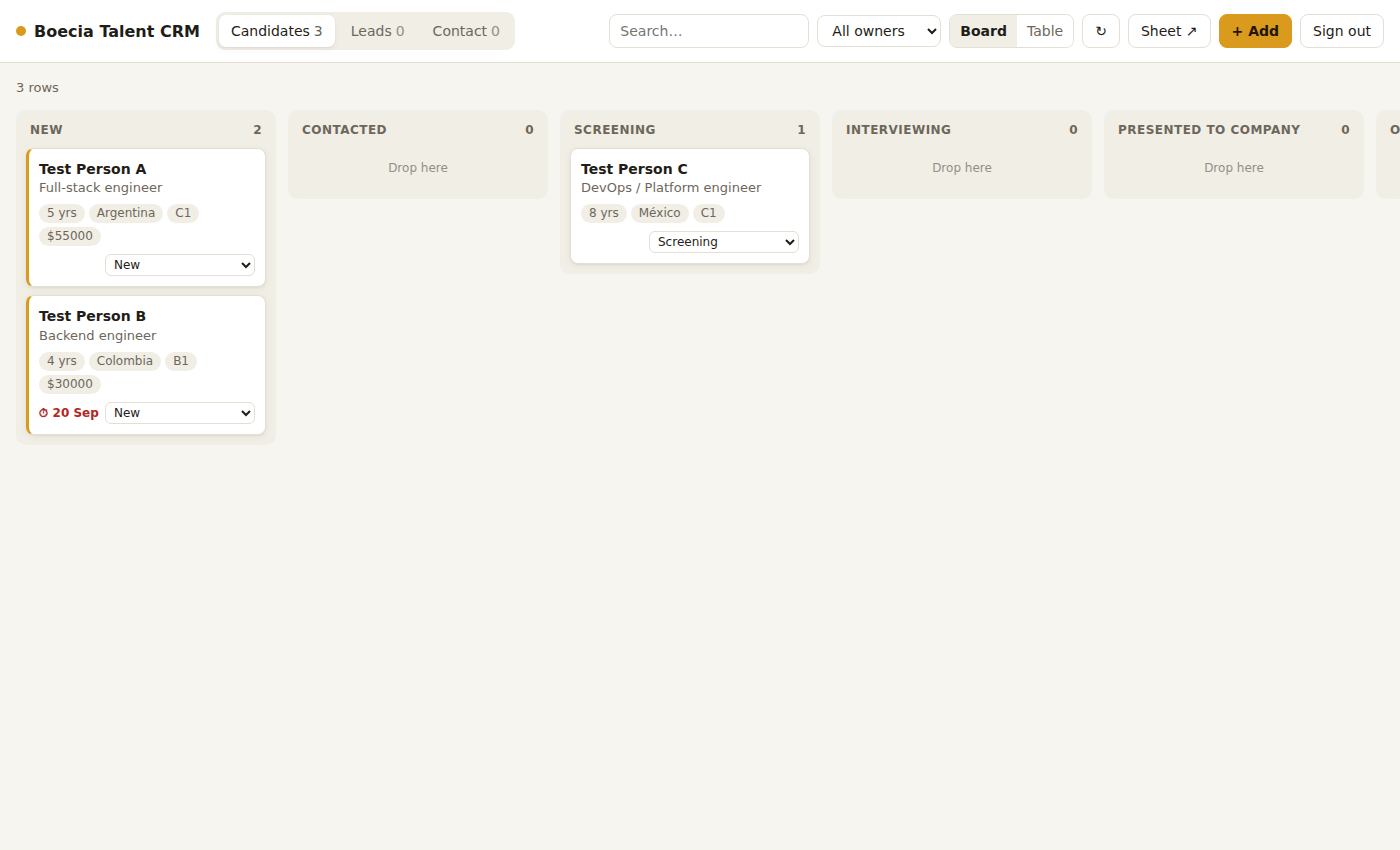
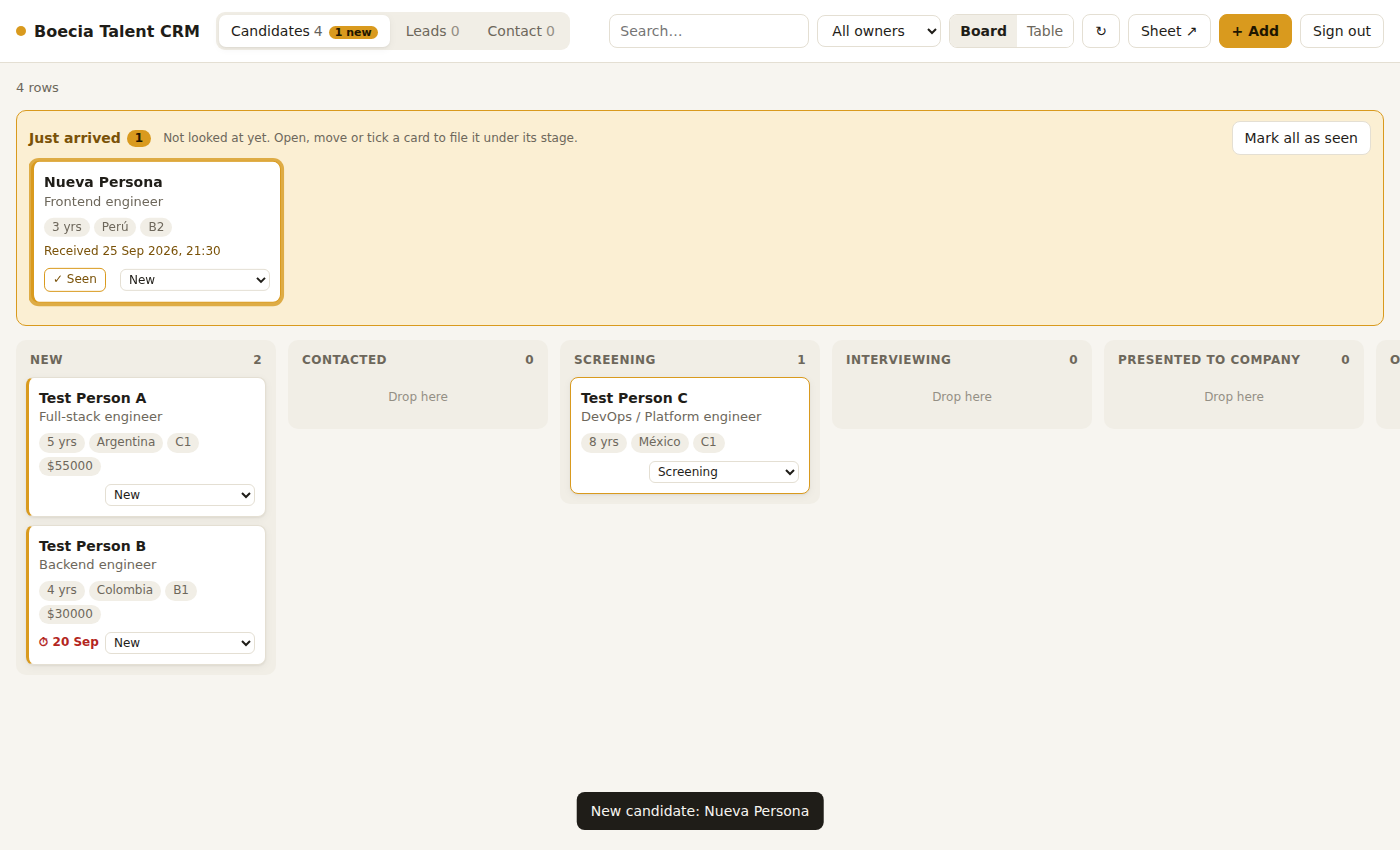
Add "Just arrived" box for new CRM submissions
Rows not yet looked at on this device (tracked in localStorage) show in a
highlighted box above the board instead of their stage column, with a
toast naming the newcomer, a count in the tab title and a badge on the
tab. Opening, moving or ticking a card files it under its stage. The
table view lists unseen rows first with a New label. Polling is every
30 s and on returning to the tab.

Claude-Session: https://claude.ai/code/session_014grjmri288MbFiqX2jiEVS

diff --git a/boecia-crm/public/app.js b/boecia-crm/public/app.js
@@ -42,10 +42,63 @@ import { createSheetsClient } from './sheets.js';
     owner: '',
     sort: { key: 'Received', dir: -1 },
     drawer: null,      // { mode: 'edit'|'new', row }
-    busy: false
+    busy: false,
+    seen: {},          // tab -> Set of Submission IDs already looked at on this device
+    flash: new Set()   // ids that just arrived, animated once
   };
 
   var $ = function (id) { return document.getElementById(id); };
+
+  /* ---------------- "Just arrived" tracking ---------------- */
+
+  // Rows are "fresh" until opened, moved or ticked as seen. Kept per device in localStorage,
+  // so anything that came in while the CRM was closed also shows up as fresh.
+  var SEEN_KEY = 'boecia-crm-seen-v1';
+  var SINGULAR = { Candidates: 'candidate', Leads: 'lead', Contact: 'contact message' };
+
+  function loadSeen() {
+    try {
+      var o = JSON.parse(localStorage.getItem(SEEN_KEY) || '{}');
+      var out = {};
+      Object.keys(o).forEach(function (t) { out[t] = new Set(o[t]); });
+      return out;
+    } catch (e) { return {}; }
+  }
+
+  function saveSeen() {
+    try {
+      var o = {};
+      Object.keys(state.seen).forEach(function (t) { o[t] = Array.from(state.seen[t]); });
+      localStorage.setItem(SEEN_KEY, JSON.stringify(o));
+    } catch (e) { /* storage blocked: fresh tracking lasts for this visit only */ }
+  }
+
+  state.seen = loadSeen();
+
+  function isFresh(tab, r) { var s = state.seen[tab]; return !!s && !s.has(r.id); }
+
+  function freshCount(tab) {
+    var d = state.data[tab];
+    return d ? d.rows.filter(function (r) { return isFresh(tab, r); }).length : 0;
+  }
+
+  function markSeen(tab, ids) {
+    var s = state.seen[tab] || (state.seen[tab] = new Set());
+    var changed = false;
+    ids.forEach(function (id) { if (!s.has(id)) { s.add(id); changed = true; } });
+    if (changed) saveSeen();
+    return changed;
+  }
+
+  var announced = 0;
+  function announce(tab, rows) {
+    announced++;
+    var lay = LAYOUT[tab];
+    var name = rows[0].values[lay.title] || rows[0].values[lay.sub] || '';
+    toast(rows.length === 1 ? 'New ' + SINGULAR[tab] + (name ? ': ' + name : '') : rows.length + ' new ' + SINGULAR[tab] + 's');
+    rows.forEach(function (r) { state.flash.add(r.id); });
+    setTimeout(function () { rows.forEach(function (r) { state.flash.delete(r.id); }); }, 2500);
+  }
 
   /* ---------------- Google Sheets calls ---------------- */
 
@@ -58,7 +111,26 @@ import { createSheetsClient } from './sheets.js';
   }
 
   function load(tab) {
-    return call('getData', tab).then(function (d) { state.data[tab] = d; return d; });
+    return call('getData', tab).then(function (d) {
+      var prev = state.data[tab];
+      var seen = state.seen[tab];
+      if (!seen) {
+        // First visit on this device: what's already in the sheet counts as seen.
+        state.seen[tab] = new Set(d.rows.map(function (r) { return r.id; }));
+      } else {
+        // Forget deleted rows so storage doesn't grow forever.
+        var ids = new Set(d.rows.map(function (r) { return r.id; }));
+        seen.forEach(function (id) { if (!ids.has(id)) seen.delete(id); });
+      }
+      saveSeen();
+      state.data[tab] = d;
+      if (prev) {
+        var before = new Set(prev.rows.map(function (r) { return r.id; }));
+        var arrived = d.rows.filter(function (r) { return !before.has(r.id) && isFresh(tab, r); });
+        if (arrived.length) announce(tab, arrived);
+      }
+      return d;
+    });
   }
 
   function loadAll(showErrors) {
@@ -128,6 +200,8 @@ import { createSheetsClient } from './sheets.js';
   /* ---------------- rendering ---------------- */
 
   function render() {
+    var total = TABS.reduce(function (n, t) { return n + freshCount(t); }, 0);
+    document.title = (total ? '(' + total + ') ' : '') + 'Boecia Talent CRM';
     renderTabs();
     renderOwnerFilter();
     var d = current();
@@ -140,7 +214,8 @@ import { createSheetsClient } from './sheets.js';
     $('tabs').innerHTML = TABS.map(function (t) {
       var d = state.data[t];
       return '<button class="tab" role="tab" data-tab="' + t + '" aria-selected="' + (t === state.tab) + '">' +
-        esc(t) + '<span class="count">' + (d ? d.rows.length : '–') + '</span></button>';
+        esc(t) + '<span class="count">' + (d ? d.rows.length : '–') + '</span>' +
+        (freshCount(t) ? '<span class="fresh-badge">' + freshCount(t) + ' new</span>' : '') + '</button>';
     }).join('');
   }
 
@@ -164,7 +239,9 @@ import { createSheetsClient } from './sheets.js';
   }
 
   function renderBoard(d) {
-    var rows = filtered(d);
+    var all = filtered(d);
+    var fresh = all.filter(function (r) { return isFresh(state.tab, r); });
+    var rows = all.filter(function (r) { return !isFresh(state.tab, r); });
     var stages = d.stages.slice();
     // Rows whose stage is blank or not in the Lists tab still need a home.
     var extra = {};
@@ -173,7 +250,12 @@ import { createSheetsClient } from './sheets.js';
 
     var lay = LAYOUT[state.tab];
     var t = today();
-    var html = statusLine(d, rows) + '<div class="board">' + stages.map(function (stage) {
+    var arrivals = fresh.length ? '<section class="arrivals" aria-label="Just arrived">' +
+      '<div class="arrivals-head"><h2>Just arrived <span class="n">' + fresh.length + '</span></h2>' +
+      '<span class="hint">Not looked at yet. Open, move or tick a card to file it under its stage.</span>' +
+      '<button class="btn" type="button" data-seen-all>Mark all as seen</button></div>' +
+      '<div class="arrivals-cards">' + fresh.map(function (r) { return cardHtml(d, r, lay, t, true); }).join('') + '</div></section>' : '';
+    var html = statusLine(d, all) + arrivals + '<div class="board">' + stages.map(function (stage) {
       var inCol = rows.filter(function (r) { return stageOf(d, r) === stage; });
       return '<section class="col" data-stage="' + esc(stage) + '">' +
         '<h3><span>' + esc(stage || 'No ' + d.stageHeader.toLowerCase()) + '</span><span>' + inCol.length + '</span></h3>' +
@@ -183,7 +265,7 @@ import { createSheetsClient } from './sheets.js';
     $('main').innerHTML = html;
   }
 
-  function cardHtml(d, r, lay, t) {
+  function cardHtml(d, r, lay, t, fresh) {
     var v = r.values;
     var title = v[lay.title] || v[lay.sub] || '(no name)';
     var chips = lay.chips.filter(function (c) { return v[c[0]]; }).map(function (c) {
@@ -194,11 +276,14 @@ import { createSheetsClient } from './sheets.js';
     var dueHtml = due ? '<span class="due' + (due < t ? ' late' : '') + '" title="' + esc((v['Next step'] ? v['Next step'] + ' · ' : '') + due) + '">⏱ ' + esc(shortDate(due)) + '</span>' : '<span></span>';
     var opts = d.stages.map(function (s) { return '<option' + (s === stage ? ' selected' : '') + '>' + esc(s) + '</option>'; }).join('');
     if (d.stages.indexOf(stage) === -1) opts = '<option selected disabled>' + esc(stage || '—') + '</option>' + opts;
-    return '<article class="card' + (stage === d.stages[0] ? ' new' : '') + '" draggable="true" data-id="' + esc(r.id) + '">' +
+    var cls = 'card' + (stage === d.stages[0] ? ' new' : '') + (fresh ? ' fresh' : '') + (state.flash.has(r.id) ? ' arrived' : '');
+    return '<article class="' + cls + '" draggable="true" data-id="' + esc(r.id) + '">' +
       '<div class="title">' + esc(title) + '</div>' +
       (v[lay.sub] && v[lay.title] ? '<div class="sub">' + esc(v[lay.sub]) + '</div>' : '') +
       (chips ? '<div class="chips">' + chips + '</div>' : '') +
-      '<div class="foot">' + dueHtml + '<select class="stage-select" aria-label="Move to">' + opts + '</select></div>' +
+      (fresh && v.Received ? '<div class="received">Received ' + esc(v.Received) + '</div>' : '') +
+      '<div class="foot">' + (fresh ? '<button class="seen-btn" type="button" data-seen title="Mark as seen">✓ Seen</button>' : dueHtml) +
+      '<select class="stage-select" aria-label="Move to">' + opts + '</select></div>' +
       '</article>';
   }
 
@@ -217,11 +302,16 @@ import { createSheetsClient } from './sheets.js';
       }
       return x < y ? -dir : x > y ? dir : 0;
     });
+    // Unseen rows go first so they stand out in the table too.
+    var tab = state.tab;
+    rows = rows.filter(function (r) { return isFresh(tab, r); }).concat(rows.filter(function (r) { return !isFresh(tab, r); }));
     var html = statusLine(d, rows) + '<div class="table-wrap"><table><thead><tr>' + cols.map(function (h) {
       return '<th data-sort="' + esc(h) + '">' + esc(h) + (h === k ? ' <span class="arrow">' + (dir > 0 ? '▲' : '▼') + '</span>' : '') + '</th>';
     }).join('') + '</tr></thead><tbody>' + rows.map(function (r) {
-      return '<tr data-id="' + esc(r.id) + '">' + cols.map(function (h) {
+      var fresh = isFresh(tab, r);
+      return '<tr data-id="' + esc(r.id) + '"' + (fresh ? ' class="fresh-row"' : '') + '>' + cols.map(function (h, i) {
         var val = r.values[h] || '';
+        if (i === 0 && fresh) return '<td title="' + esc(val) + '"><span class="pill arrived">New</span>' + esc(val) + '</td>';
         if (h === d.stageHeader) return '<td><span class="pill' + (val === d.stages[0] ? ' new' : '') + '">' + esc(val) + '</span></td>';
         return '<td title="' + esc(val) + '">' + esc(val) + '</td>';
       }).join('') + '</tr>';
@@ -234,6 +324,7 @@ import { createSheetsClient } from './sheets.js';
   function openDrawer(mode, row) {
     var d = current();
     state.drawer = { mode: mode, tab: state.tab, row: row };
+    if (row && markSeen(state.tab, [row.id])) render();
     var lay = LAYOUT[state.tab];
     $('drawer-title').textContent = mode === 'new' ? 'New ' + state.tab.replace(/s$/, '').toLowerCase()
       : (row.values[lay.title] || row.values[lay.sub] || 'Row');
@@ -305,7 +396,7 @@ import { createSheetsClient } from './sheets.js';
     if (dr.mode === 'new') {
       var data = {};
       Object.keys(vals).forEach(function (h) { if (String(vals[h]).trim()) data[h] = vals[h]; });
-      p = call('createRow', dr.tab, data).then(function (row) { replaceRow(dr.tab, row); toast('Added'); });
+      p = call('createRow', dr.tab, data).then(function (row) { markSeen(dr.tab, [row.id]); replaceRow(dr.tab, row); toast('Added'); });
     } else {
       var patch = {};
       Object.keys(vals).forEach(function (h) { if (dr.initial[h] !== vals[h]) patch[h] = vals[h]; });
@@ -350,7 +441,10 @@ import { createSheetsClient } from './sheets.js';
   function move(id, stage) {
     var tab = state.tab, d = state.data[tab];
     var row = d.rows.find(function (r) { return r.id === id; });
-    if (!row || stageOf(d, row) === stage) return;
+    if (!row) return;
+    // Moving a card, even dropping it on its current stage, files it out of "Just arrived".
+    if (markSeen(tab, [id]) && stageOf(d, row) === stage) { render(); return; }
+    if (stageOf(d, row) === stage) return;
     var before = row.values[d.stageHeader];
     row.values[d.stageHeader] = stage;
     render();
@@ -391,11 +485,23 @@ import { createSheetsClient } from './sheets.js';
 
   $('refresh').addEventListener('click', function () {
     $('refresh').disabled = true;
-    loadAll(true).then(function () { toast('Up to date'); }).then(function () { $('refresh').disabled = false; });
+    var before = announced;
+    loadAll(true).then(function () { if (announced === before) toast('Up to date'); }).then(function () { $('refresh').disabled = false; });
   });
   $('add').addEventListener('click', function () { if (current()) openDrawer('new', null); });
 
   $('main').addEventListener('click', function (e) {
+    if (e.target.closest('[data-seen-all]')) {
+      markSeen(state.tab, current().rows.filter(function (r) { return isFresh(state.tab, r); }).map(function (r) { return r.id; }));
+      render();
+      return;
+    }
+    var seenBtn = e.target.closest('[data-seen]');
+    if (seenBtn) {
+      markSeen(state.tab, [seenBtn.closest('[data-id]').getAttribute('data-id')]);
+      render();
+      return;
+    }
     if (e.target.closest('select, a')) return;
     var th = e.target.closest('th[data-sort]');
     if (th) {
@@ -457,11 +563,13 @@ import { createSheetsClient } from './sheets.js';
     if ((e.metaKey || e.ctrlKey) && e.key === 's' && state.drawer) { e.preventDefault(); save(); }
   });
 
-  // Pick up new Tally submissions without a manual refresh.
-  setInterval(function () {
+  // Pick up new Tally submissions without a manual refresh: every 30 s, and when you come back to the tab.
+  function poll() {
     if (document.hidden || state.drawer || dragId || state.busy || !auth.isSignedIn()) return;
     loadAll(false);
-  }, 60000);
+  }
+  setInterval(poll, 30000);
+  document.addEventListener('visibilitychange', poll);
 
   /* ---------------- start ---------------- */
   try { var saved = localStorage.getItem('boecia-crm-view'); if (saved === 'table' || saved === 'board') state.view = saved; } catch (e) {}

diff --git a/boecia-crm/public/styles.css b/boecia-crm/public/styles.css
@@ -179,3 +179,36 @@
     padding: 8px 8px 8px 14px; display: flex; align-items: center; gap: 12px; max-width: calc(100% - 32px);
   }
   #account { max-width: 180px; overflow: hidden; text-overflow: ellipsis; }
+
+  /* ---------- just arrived ---------- */
+  .arrivals {
+    background: var(--honey-soft); border: 1px solid var(--honey); border-radius: var(--radius);
+    padding: 10px 12px 12px; margin-bottom: 14px;
+  }
+  .arrivals-head { display: flex; align-items: center; gap: 6px 12px; flex-wrap: wrap; margin-bottom: 2px; }
+  .arrivals-head h2 { margin: 0; font-size: 14px; color: var(--honey-text); display: flex; align-items: center; gap: 6px; }
+  .arrivals-head .n { background: var(--honey); color: #1f1600; border-radius: 999px; padding: 0 8px; font-size: 12px; }
+  .arrivals-head .hint { color: var(--muted); font-size: 12px; flex: 1; min-width: 180px; }
+  /* top padding leaves room for the slide-in animation inside the scroll area */
+  .arrivals-cards { display: flex; gap: 8px; overflow-x: auto; padding: 10px 2px 4px; }
+  .arrivals-cards .card { flex: 0 0 250px; }
+  .card.fresh { border-color: var(--honey); }
+  .card .received { font-size: 12px; color: var(--honey-text); margin-top: 6px; }
+  .seen-btn {
+    border: 1px solid var(--honey); background: var(--surface); color: var(--honey-text); border-radius: 6px;
+    font-size: 12px; padding: 2px 8px; cursor: pointer; white-space: nowrap;
+  }
+  .seen-btn:hover { background: var(--honey); color: #1f1600; }
+  .card.arrived { animation: arrive 1.8s ease-out; }
+  @keyframes arrive {
+    0% { transform: translateY(-8px); box-shadow: 0 0 0 4px var(--honey); }
+    100% { transform: none; }
+  }
+  @media (prefers-reduced-motion: reduce) { .card.arrived { animation: none; } }
+  .tab .fresh-badge {
+    background: var(--honey); color: #1f1600; border-radius: 999px; font-size: 11px; font-weight: 600;
+    padding: 0 6px; margin-left: 6px;
+  }
+  tr.fresh-row td { background: var(--honey-soft); }
+  .pill.arrived { background: var(--honey); color: #1f1600; margin-right: 6px; font-weight: 600; }
+  @media (max-width: 720px) { .arrivals-cards .card { flex-basis: 78vw; } }

diff --git a/boecia-crm/README.md b/boecia-crm/README.md
@@ -7,6 +7,7 @@ This is a small website for working the **Boecia Talent CRM** Google Sheet, host
 - open any row to edit Owner, Next step, Next step date, Notes or any other field
 - add rows by hand, e.g. a LinkedIn contact who replied becomes a Lead
 - delete rows (a copy goes to an `Archive · <tab>` sheet first, so nothing is lost)
+- see new submissions in a separate **Just arrived** box, even ones that come in while you're looking
 - search, filter by owner, and switch to a sortable table view
 
 ![Board view](screenshot.png)
@@ -60,6 +61,16 @@ Cloudflare issues the HTTPS certificate on its own, usually within minutes. Then
 2. Add their Gmail under **Google Auth Platform → Audience → Test users** (up to 100 people).
 
 To remove access, un-share the sheet.
+
+## Just arrived
+Anything you haven't looked at yet goes in the **Just arrived** box above the board instead of its stage column. This includes submissions that come in while the CRM is open (it checks every 30 seconds, and again when you come back to the browser tab) and ones that arrived while it was closed. When one arrives you get:
+- a message with the person's name
+- a count in the browser tab title, like `(1) Boecia Talent CRM`
+- a "1 new" badge on the Candidates / Leads / Contact tab
+
+A card leaves the box when you open it, move it, or click **✓ Seen**. **Mark all as seen** clears the whole box. In the table view, unseen rows come first with a **New** label.
+
+"Seen" is remembered per browser, so your phone and laptop each keep their own. The first time you open the CRM on a device, everything already in the sheet counts as seen.
 
 ## Everyday notes
 - **Sessions last about an hour.** When one expires, a **Reconnect** button appears. It's one click, with no password if you're still signed in to Google.
